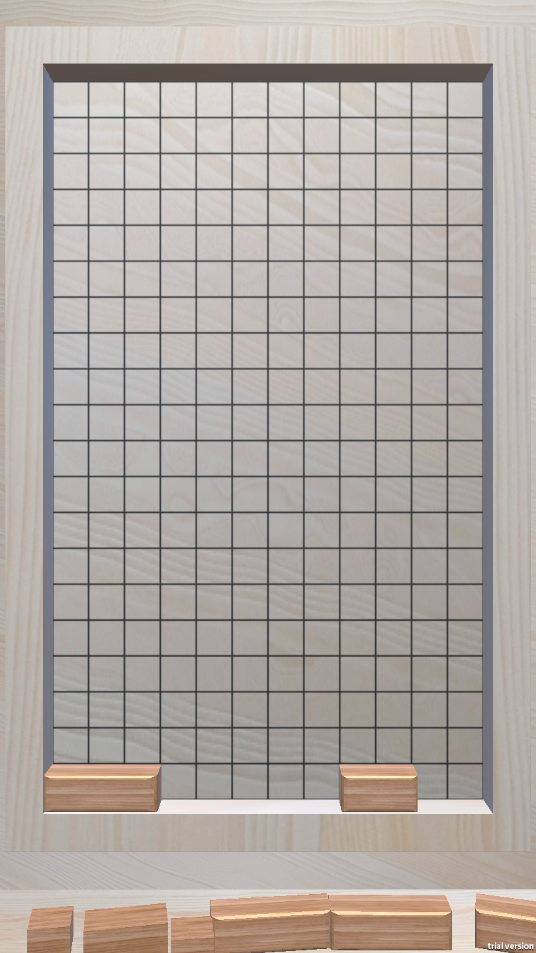
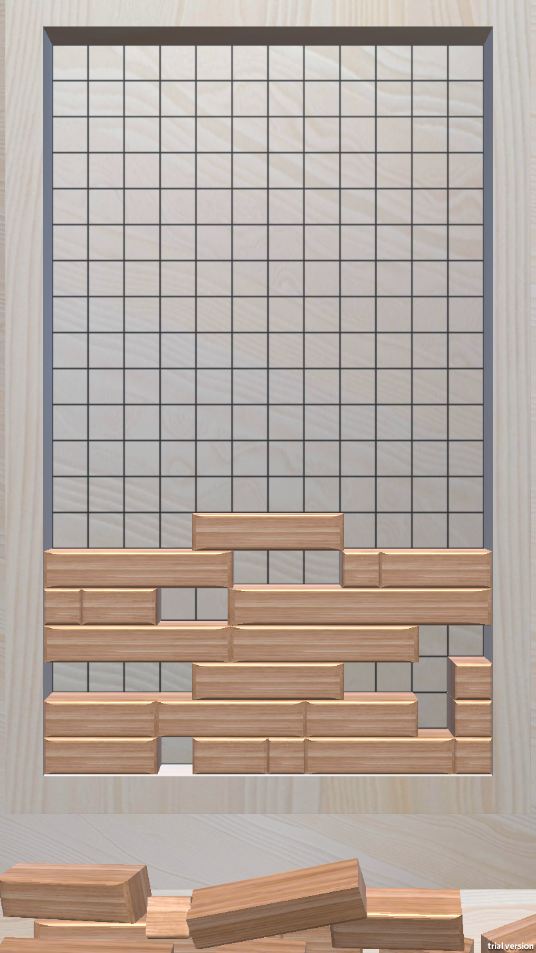
docs: add ico

diff --git a/README.md b/README.md
@@ -4,8 +4,7 @@
 
 <img src="Imgs/b.jpg" width="250">
 
-还没写关卡，一个测试的截图如下：
-
+写了一个关卡，测试截图如下：
 
 <img src="Imgs/test.png" width="250">
 
